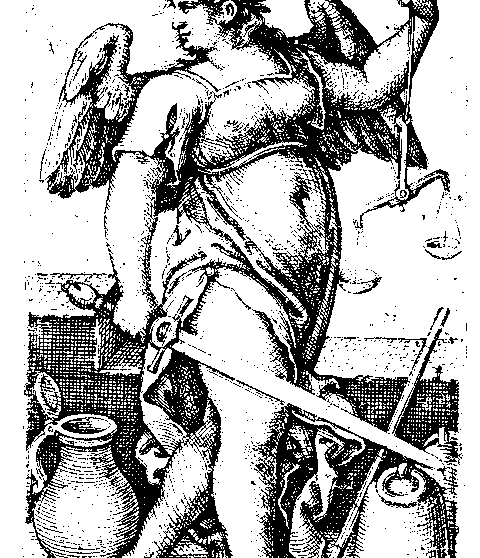
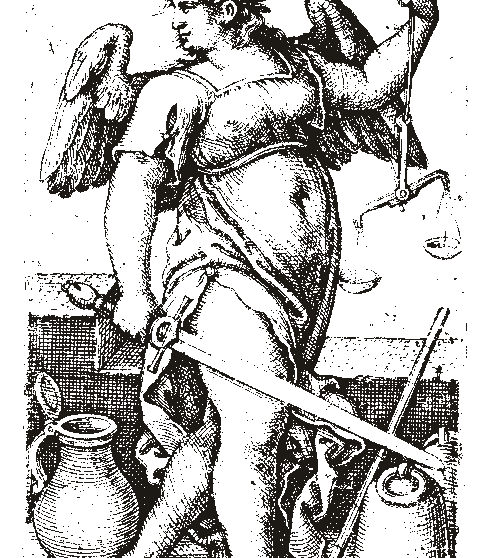
Warm cream background; etchings on a transparent ground
Page and cards move to #efe9d7 with a warmer ink (#1d1a16). The etching
build now writes ink-only PNGs with transparent paper, so the prints sit
directly on the page colour.

diff --git a/src/styles.css b/src/styles.css
@@ -5,11 +5,11 @@
    ========================================================= */
 
 :root {
-  --paper: #fbfaf6;
-  --ink: #0b0a09;
-  --ink-soft: #1f1c19;
-  --ink-dim: #4a4642;
-  --line: #0b0a09;
+  --paper: #efe9d7;
+  --ink: #1d1a16;
+  --ink-soft: #2f2a24;
+  --ink-dim: #5a5248;
+  --line: #1d1a16;
   --gothic: 'Grenze Gotisch', 'Libre Caslon Text', Georgia, serif;
   --text: 'Libre Caslon Text', Georgia, serif;
 }
@@ -901,7 +901,7 @@ a:focus-visible {
 .modal-backdrop {
   position: fixed;
   inset: 0;
-  background: rgba(11, 10, 9, 0.6);
+  background: rgba(29, 26, 22, 0.6);
   display: flex;
   align-items: center;
   justify-content: center;

diff --git a/index.html b/index.html
@@ -4,7 +4,7 @@
     <meta charset="UTF-8" />
     <meta name="viewport" content="width=device-width, initial-scale=1.0" />
     <meta name="description" content="Tarocik — tarot online: karta dnia, rozkłady i znaczenia wszystkich 78 kart. / Tarot online: card of the day, spreads and meanings of all 78 cards." />
-    <meta name="theme-color" content="#fbfaf6" />
+    <meta name="theme-color" content="#efe9d7" />
     <title>Tarocik — tarot online</title>
     <link rel="icon" type="image/svg+xml" href="./favicon.svg" />
     <link rel="apple-touch-icon" href="./apple-touch-icon.png" />

diff --git a/src/components/CardArt.tsx b/src/components/CardArt.tsx
@@ -3,8 +3,8 @@ import type { Lang, Suit, TarotCard } from '../types'
 import { cardLabel } from '../lib/draw'
 import { STAR8, rays } from './Ornaments'
 
-const INK = '#0b0a09'
-const PAPER = '#fbfaf6'
+const INK = '#1d1a16'
+const PAPER = '#efe9d7'
 const GOTHIC = "'Grenze Gotisch', 'Libre Caslon Text', Georgia, serif"
 const SERIF = "'Libre Caslon Text', Georgia, serif"
 
